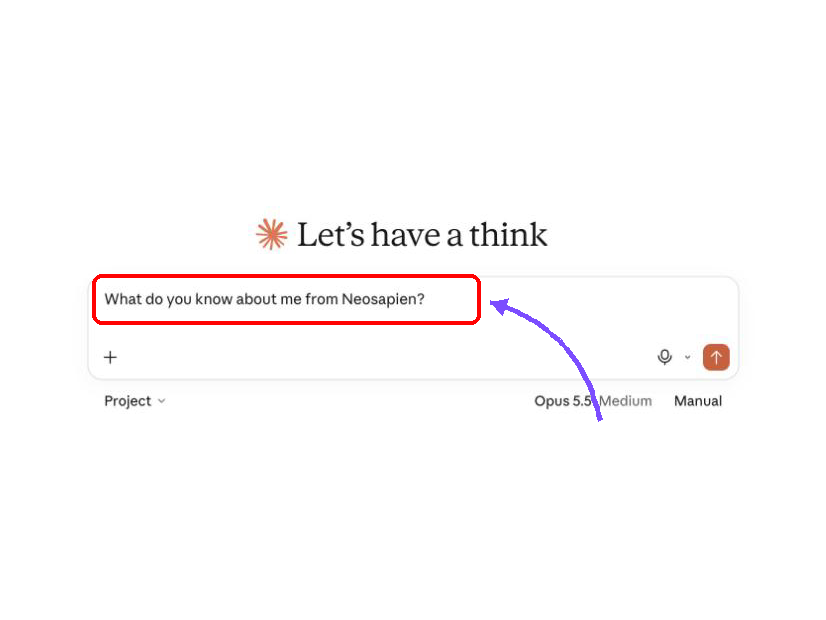
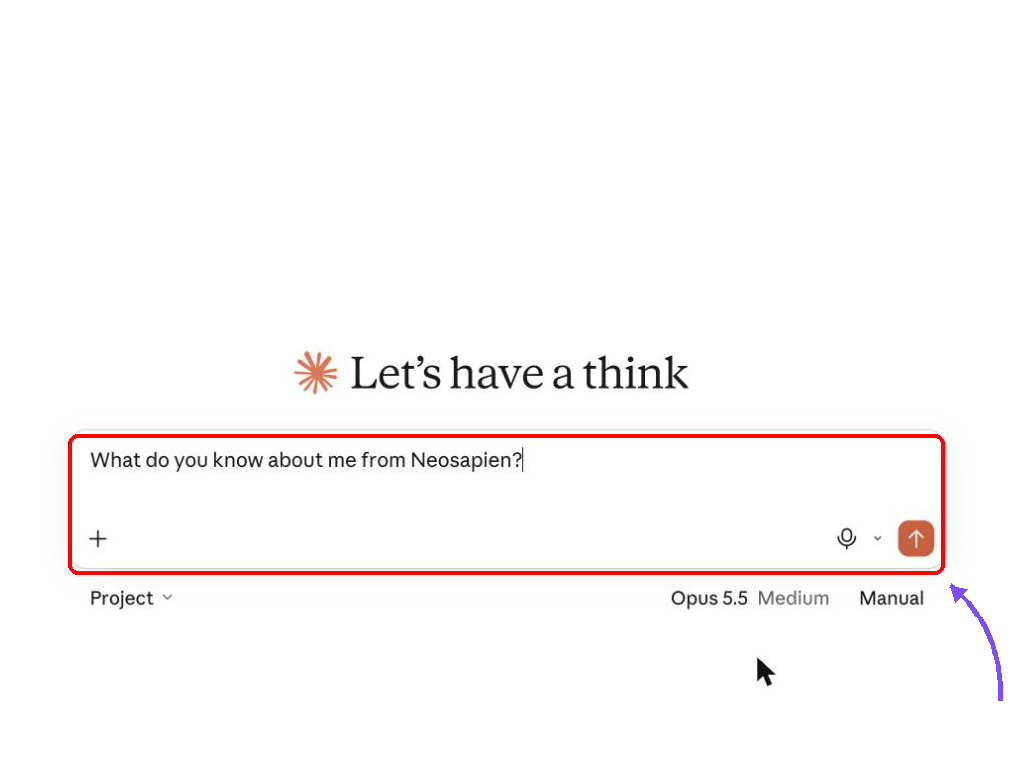
Sharpen Claude quick-setup images with zoomed recaptures
Steps 1, 3 and 5 recaptured with the page CSS-zoomed 1.25-1.35x, so
each cropped region carries ~1000-1090px of real pixels instead of
~790 — crisp on retina at the card's display size. Annotations redrawn.
All five Claude steps now sit at 842-1090px.

diff --git a/index.html b/index.html
@@ -17,7 +17,7 @@
   <link rel="icon" href="assets/icons/icon-192.png" />
 
   <link rel="preload" href="assets/fonts/worksans-latin.woff2" as="font" type="font/woff2" crossorigin />
-  <link rel="stylesheet" href="css/styles.css?v=19" />
+  <link rel="stylesheet" href="css/styles.css?v=20" />
 </head>
 <body>
   <div id="app" class="screen">
@@ -58,6 +58,6 @@
 
   <div id="toast" class="toast" role="status" aria-live="polite"></div>
 
-  <script src="js/app.js?v=19" type="module"></script>
+  <script src="js/app.js?v=20" type="module"></script>
 </body>
 </html>

diff --git a/sw.js b/sw.js
@@ -1,5 +1,5 @@
 // Neosapien MCP Guide — service worker (offline-first)
-const CACHE = 'neo-mcp-guide-v19';
+const CACHE = 'neo-mcp-guide-v20';
 
 // App shell + core assets pre-cached on install.
 const CORE = [
